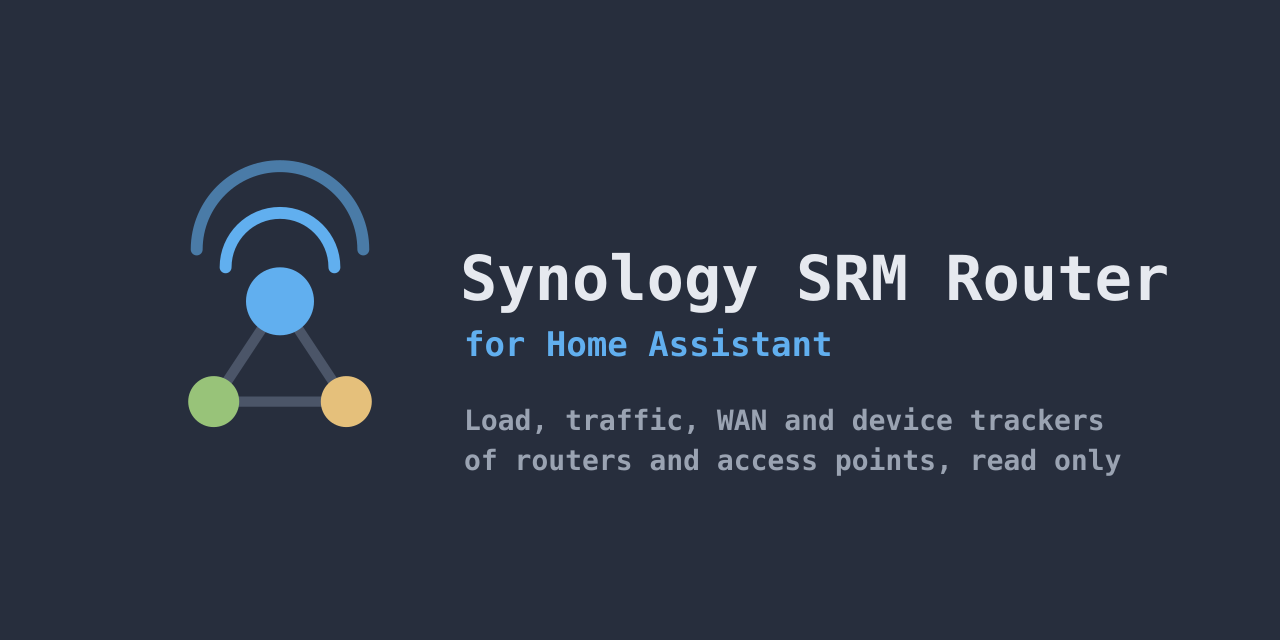
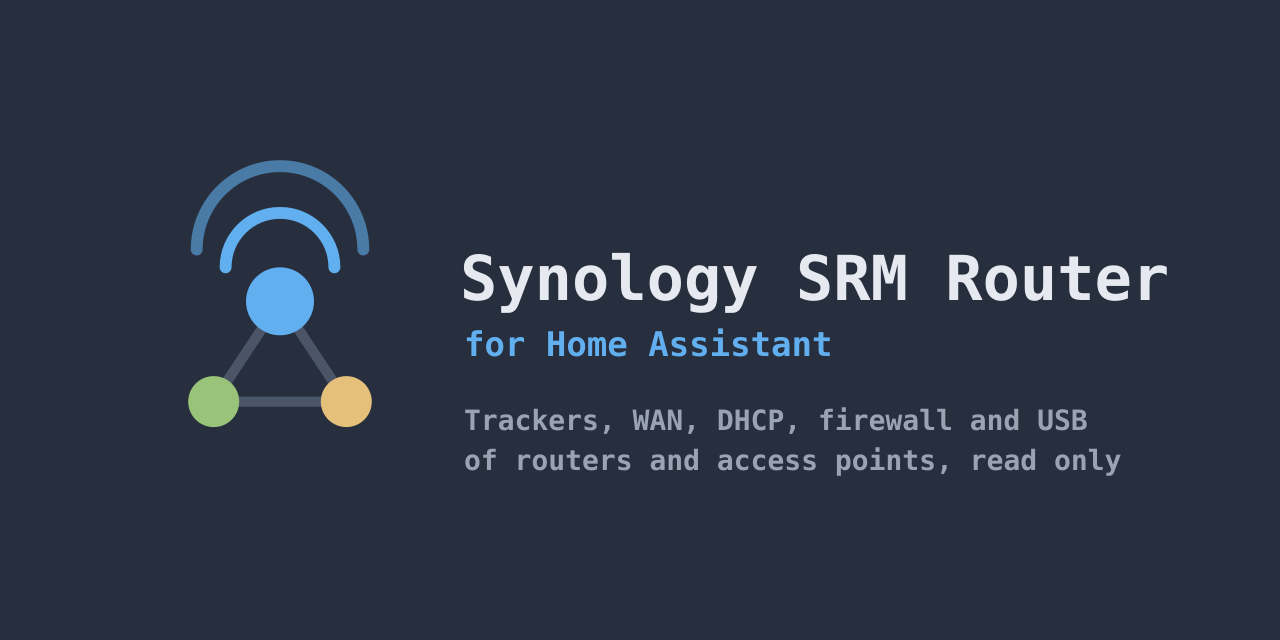
feat(ha-synology-srm-router): social preview names DHCP, firewall and USB (#3)

Changed region(s): [[0.5625, 0.625, 0.875, 0.6875], [0.3438, 0.625, 0.5312, 0.6875]]

diff --git a/ha-synology-srm-router/build.py b/ha-synology-srm-router/build.py
@@ -33,7 +33,7 @@ HERE = Path(__file__).resolve().parent
 OUT = HERE / "out"
 NAME = "Synology SRM Router"
 SUBTITLE = "for Home Assistant"
-TAGLINE = ("Load, traffic, WAN and device trackers", "of routers and access points, read only")
+TAGLINE = ("Trackers, WAN, DHCP, firewall and USB", "of routers and access points, read only")
 
 
 def header(c: Palette, size: int = 64) -> tuple[str, int, int]:
